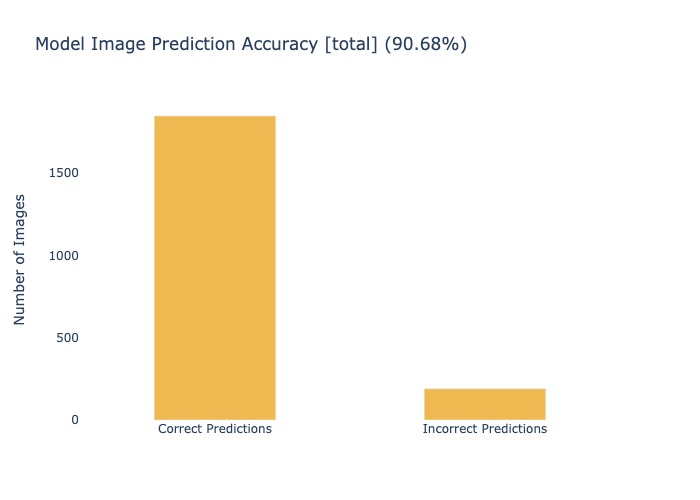
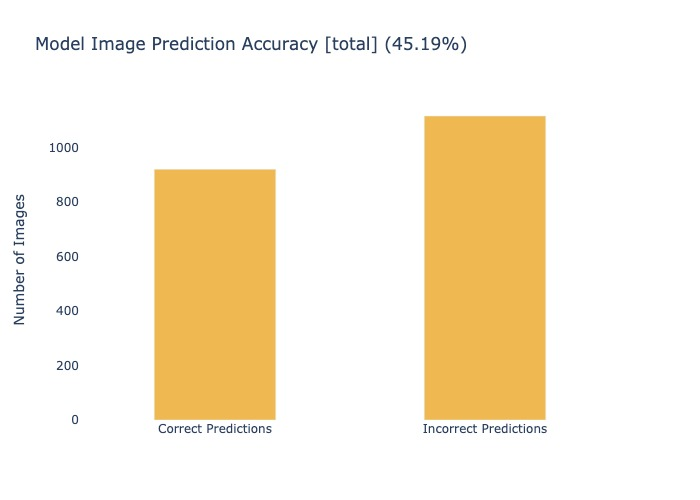
g

diff --git a/jobs/jobs.py b/jobs/jobs.py
@@ -31,17 +31,17 @@ def aggregate_and_retrain_model():
             # Filter out fraud predictions
             print(f"aggregate-category-data: {len(images_ready_for_processing)} images taken for retraining")
 
-            images_processed_through_data_quality_engine = \
-                DataQuality.exclude_faulty_feedback_v1(images_ready_for_processing)
-
-            images_ready_for_processing = images_processed_through_data_quality_engine[0]
-            images_excluded = images_processed_through_data_quality_engine[1]
+            # images_processed_through_data_quality_engine = \
+            #     DataQuality.exclude_faulty_feedback_v1(images_ready_for_processing)
+            #
+            # images_ready_for_processing = images_processed_through_data_quality_engine[0]
+            # images_excluded = images_processed_through_data_quality_engine[1]
 
             # REPORT
-            DataQualityValidation.prepare_report(collected_report, images_excluded)
+            # DataQualityValidation.prepare_report(collected_report, images_excluded)
 
-            print(
-                f"aggregate-category-data {len(images_excluded)} images EXCLUDED")
+            # print(
+            #     f"aggregate-category-data {len(images_excluded)} images EXCLUDED")
             print(
                 f"aggregate-category-data {len(images_ready_for_processing)} images taken for retraining after quality engine")
             ScenePrediction.retrain_model(images_ready_for_processing)

diff --git a/vizualization_tools/model accuracy.py b/vizualization_tools/model accuracy.py
@@ -5,7 +5,7 @@ import plotly.io as pio
 total_images = 2038
 
 # Number of correctly predicted images
-correct_predictions = 1848
+correct_predictions = 921
 
 # Calculate the accuracy percentage
 accuracy_percentage = (correct_predictions / total_images) * 100
